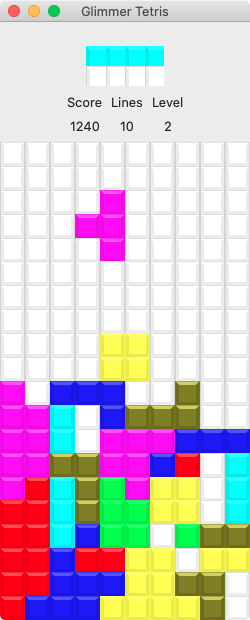
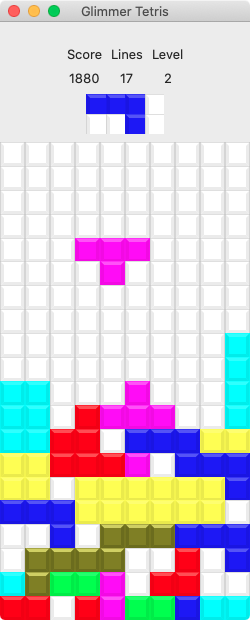
Update Tetris screenshots / Update Tetris dimensions on Linux (due to extra speed menu expanding width and affecting Tetris block look)

diff --git a/examples/tetris.rb b/examples/tetris.rb
@@ -5,7 +5,7 @@ require_relative 'tetris/model/game'
 class Tetris
   include Glimmer
   
-  BLOCK_SIZE = 25
+  BLOCK_SIZE = OS.linux? ? 28 : 25
   BEVEL_CONSTANT = 20
   COLOR_GRAY = {r: 192, g: 192, b: 192}
     

diff --git a/README.md b/README.md
@@ -335,7 +335,7 @@ NOTE: [Glimmer DSL for LibUI](https://rubygems.org/gems/glimmer-dsl-libui) is 10
 **[Glimmer](https://rubygems.org/gems/glimmer) DSL Comparison Table:**
 DSL | Platforms | Native? | Vector Graphics? | Pros | Cons | Prereqs
 ----|-----------|---------|------------------|------|------|--------
-[Glimmer DSL for SWT (JRuby Desktop Development GUI Framework)](https://github.com/AndyObtiva/glimmer-dsl-swt) | Mac / Windows / Linux | Yes | Yes (Canvas Shape DSL) | Very Mature / Scaffolding / Native Executable Packaging / Custom Widgets | Slow JRuby Startup Time / Heavy Memory Footprint | Java / JRuby 
+[Glimmer DSL for SWT (JRuby Desktop Development GUI Framework)](https://github.com/AndyObtiva/glimmer-dsl-swt) | Mac / Windows / Linux | Yes | Yes (Canvas Shape DSL) | Very Mature / Scaffolding / Native Executable Packaging / Custom Widgets | Slow JRuby Startup Time / Heavy Memory Footprint | Java / JRuby
 [Glimmer DSL for Opal (Pure Ruby Web GUI and Auto-Webifier of Desktop Apps)](https://github.com/AndyObtiva/glimmer-dsl-opal) | All Web Browsers | No | Yes (Canvas Shape DSL) | Simpler than All JavaScript Technologies / Auto-Webify Desktop Apps | Setup Process / Only Rails 5 Support for Now | Rails
 [Glimmer DSL for LibUI (Prerequisite-Free Ruby Desktop Development GUI Library)](https://github.com/AndyObtiva/glimmer-dsl-libui) | Mac / Windows / Linux | Yes | Yes (Area API) | Fast Startup Time / Light Memory Footprint | LibUI is an Incomplete Mid-Alpha Only | None Other Than MRI Ruby
 [Glimmer DSL for Tk (MRI Ruby Desktop Development GUI Library)](https://github.com/AndyObtiva/glimmer-dsl-tk) | Mac / Windows / Linux | Some Native-Themed Widgets (Not Truly Native) | Yes (Canvas) | Fast Startup Time / Light Memory Footprint | Widgets Do Not Look Truly Native, Espcially on Linux | ActiveTcl / MRI Ruby
@@ -9564,7 +9564,7 @@ ruby -r glimmer-dsl-libui -e "require 'examples/tetris'"
 
 Mac | Windows | Linux
 ----|---------|------
-![glimmer-dsl-libui-mac-tetris.png](images/glimmer-dsl-libui-mac-tetris.png) ![glimmer-dsl-libui-mac-tetris-game-over.png](images/glimmer-dsl-libui-mac-tetris-game-over.png) ![glimmer-dsl-libui-mac-tetris-high-scores.png](images/glimmer-dsl-libui-mac-tetris-high-scores.png) | ![glimmer-dsl-libui-windows-tetris.png](images/glimmer-dsl-libui-windows-tetris.png) ![glimmer-dsl-libui-windows-tetris-game-over.png](images/glimmer-dsl-libui-windows-tetris-game-over.png) ![glimmer-dsl-libui-windows-tetris-high-scores.png](images/glimmer-dsl-libui-windows-tetris-high-scores.png) | ![glimmer-dsl-libui-linux-tetris.png](images/glimmer-dsl-libui-linux-tetris.png) ![glimmer-dsl-libui-linux-tetris-game-over.png](images/glimmer-dsl-libui-linux-tetris-game-over.png) ![glimmer-dsl-libui-linux-tetris-high-scores.png](images/glimmer-dsl-libui-linux-tetris-high-scores.png)
+![glimmer-dsl-libui-mac-tetris.png](images/glimmer-dsl-libui-mac-tetris.png) | ![glimmer-dsl-libui-windows-tetris.png](images/glimmer-dsl-libui-windows-tetris.png) | ![glimmer-dsl-libui-linux-tetris.png](images/glimmer-dsl-libui-linux-tetris.png)
 
 New [Glimmer DSL for LibUI](https://rubygems.org/gems/glimmer-dsl-libui) Version:
 
